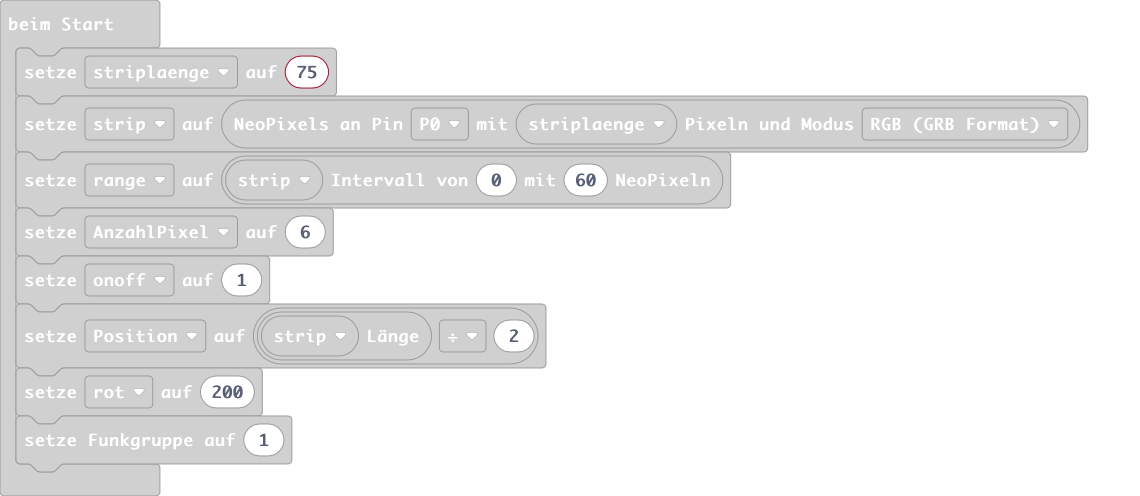
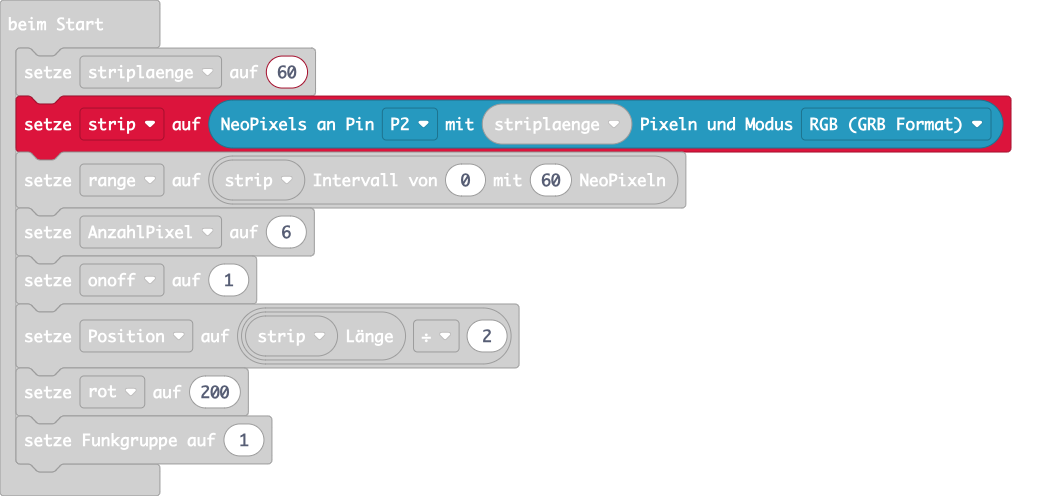
Aktualisiere pxt.json, main.blocks, main.ts

diff --git a/main.ts b/main.ts
@@ -38,8 +38,8 @@ let Position = 0
 let onoff = 0
 let AnzahlPixel = 0
 let striplaenge = 0
-striplaenge = 75
-let strip = neopixel.create(DigitalPin.P0, striplaenge, NeoPixelMode.RGB)
+striplaenge = 60
+let strip = neopixel.create(DigitalPin.P2, striplaenge, NeoPixelMode.RGB)
 let range = strip.range(0, 60)
 AnzahlPixel = 6
 onoff = 1
